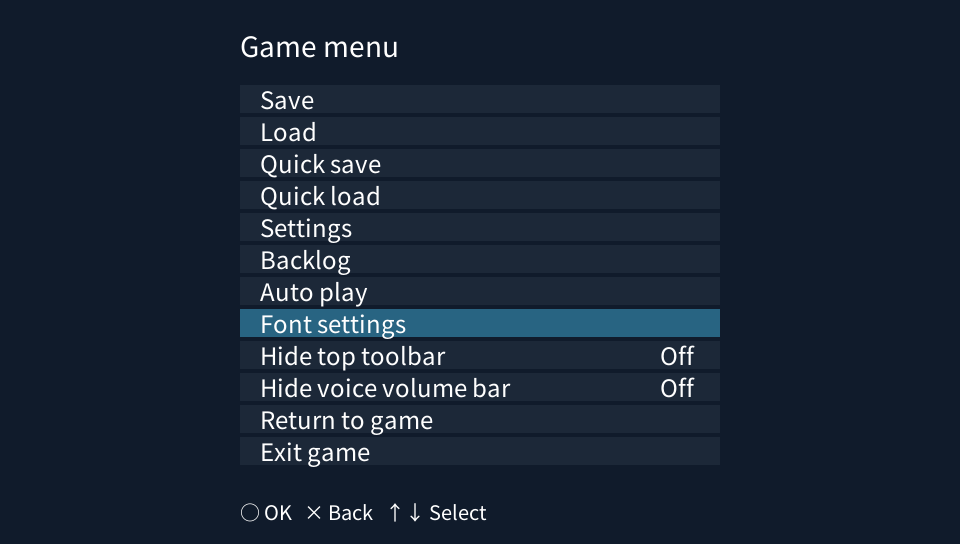
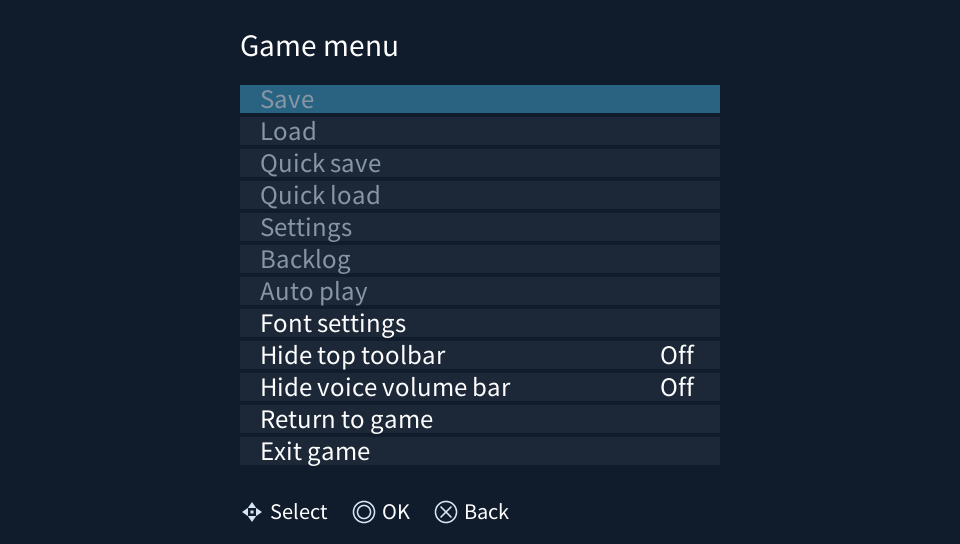
docs: explain cover setup and refresh bilingual controller screenshots
Clarify image-category selection, remove the audio-ramp paragraph, and
replace settings captures with the current controller-icon UI.

diff --git a/README.en.md b/README.en.md
@@ -5,7 +5,7 @@
 > [!IMPORTANT]
 > **First, use the companion tool [Art3m1sPsvPortTool](https://github.com/DeQxJ00/Art3m1sPsvPortTool) to resize and convert image and video assets.** Then place the processed resources in `ux0:/data/art3m1s-gxm/games/`, with one subfolder per game.
 >
-> Quick steps: enter the **input** and **output directories** → click **Auto-detect resolution** → if converting to PSV-specific textures, also click **Scan image categories** → when scanning is complete, click **Start conversion**.
+> Quick steps: enter the **input** and **output directories** → click **Auto-detect resolution** → if converting to PSV-specific textures, also click **Scan image categories** (select the categories you need) → when scanning is complete, click **Start conversion**.
 >
 > See [Resource adaptation](#resource-adaptation) below for detailed instructions.
 
@@ -38,7 +38,8 @@ ux0:/data/art3m1s-gxm/
    ├─ game_01/
    │  ├─ root.pfs       # Example: keep actual archive names and required volumes
    │  ├─ title.txt      # Optional display title
-   │  ├─ icon.png       # Optional game-list icon
+   │  ├─ icon.png       # Optional small icon for list view
+   │  ├─ cover.png      # Optional landscape cover; 640×360 recommended
    │  └─ platform.txt   # Optional boot platform
    └─ game_02/
       └─ …
@@ -46,11 +47,20 @@ ux0:/data/art3m1s-gxm/
 
 - Game folder names support Chinese, Japanese, spaces, parentheses, and other common symbols, up to 100 UTF-8 bytes. Do not use `/ \ : * ? " < > |`, control characters, or a trailing space or period. Renaming a folder changes its save/settings identity; keep existing game folder names unchanged when possible.
 - **Optional: customize the display title.** Titles do not require a `title.txt` file. To override the display title, create `title.txt` in the game folder, encoded as **UTF-8 without BOM**, containing your preferred title.
-- Press **Triangle** to switch between list and cover views; the launcher defaults to list and remembers your choice. Covers use **3 columns × 2 rows** per page. Use the directional buttons to select, **L/R** to change pages, and **Circle** to start. Tap to select, then tap the selected entry to start; the footer also switches views. Add `cover.png`, `cover.jpg`, or `cover.jpeg` to the game folder (tried in that order). **16:9 at 640×360** is recommended; 1280×720 also works. Covers fit within 288×162 with padding, without cropping or overlaid titles. Titles appear below; missing covers use a small icon placeholder. Files are limited to 8 MiB and the decode buffer to 32 MiB. Thumbnails are cached in `ux0:/data/art3m1s-gxm/cover-cache/` and rebuilt when the source size or modification time changes. Reading, decoding, and cache writes run in the background while placeholders remain visible. Cache hits load RGBA thumbnails without decoding PNG/JPEG again. At most one cover is uploaded per frame; changing pages cancels queued work for the old page.
+- Press **Triangle** to switch between list and cover views; the launcher defaults to list and remembers your choice. Covers use **3 columns × 2 rows** per page. Use the directional buttons to select, **L/R** to change pages, and **Circle** to start. Tap to select, then tap the selected entry to start; the footer also switches views. See below for cover-file preparation.
 - The game list reads `icon.png`, with support for `icon0.png`, `sce_sys/icon0.png`, and `saveicon.png`. A square PNG is recommended; it is scaled proportionally to fit 48 × 48. If no usable icon exists but an `.exe` has the same base name as a `.pfs` archive, the icon is extracted after loading that game starts and cached in `ux0:/data/art3m1s-gxm/icon-cache/`. If no matching EXE exists, it uses another EXE only when exactly one EXE in that folder has an extractable icon. It appears when returning to the game list or on the next launch; multiple usable EXE icons are not chosen automatically. Other games receive title-based icons. PFS files are not modified.
 - Preserve relative paths between archives and loose resources. Do not mix an extra set of debugging extracts into the active game folder.
 - The default boot platform is **Vita**. Select a game and press **□** to choose Vita, Windows, Switch, Android, iOS, or PS4. This is saved per game and applies on its next launch. Creating `platform.txt` manually is optional.
 - Press **SELECT** in the game list, or tap **About** in the upper right, to view the developer, project GitHub address, and credits.
+
+### Optional game covers (cover.png)
+
+Place the cover in the **root of that game's folder**, for example `ux0:/data/art3m1s-gxm/games/game_01/cover.png`, outside the resource archive. `icon.png` provides the small list icon; `cover.png` provides the cover-view image. You can keep both.
+
+- **Formats and priority:** `cover.png`, then `cover.jpg`, then `cover.jpeg`.
+- **Recommended size:** landscape **16:9 at 640×360**; 1280×720 also works. Images fit within 288×162 with padding when needed, without cropping. Titles appear below the cover; missing or invalid covers use a small icon placeholder.
+- **Limits:** **8 MiB** per file and **32 MiB** for the decode buffer.
+- **Loading and caching:** reading, decoding and thumbnail generation run in the background. Thumbnails are stored in `ux0:/data/art3m1s-gxm/cover-cache/`. Later displays read the RGBA thumbnail directly; changes to the source file size or modification time rebuild it automatically. No manual conversion or cache deletion is needed.
 
 ## Resource adaptation
 
@@ -90,8 +100,6 @@ Use **L/R** in game settings to switch pages and access the E-mote backend and P
 ### Audio and movies
 
 Audio can usually be left unchanged; convert it separately if format or playback problems occur.
-
-The per-game **Audio fade in/out** switch is off by default. When enabled, forced stops and immediate replacements add a short ramp of about 12 ms. Fades requested by game scripts stay unchanged.
 
 ~~Convert movie files separately using an ffmpeg command.~~
 
